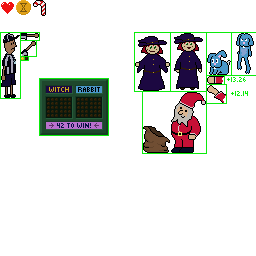
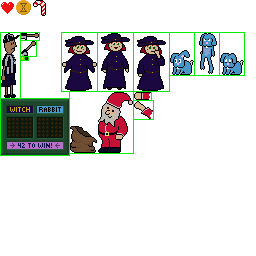
minor touches for dance and jumprope -- gameplay complete!

Changed region(s): [[0.0, 0.125, 1.0, 0.625]]

diff --git a/src/game/minigame/minigame_jumprope.c b/src/game/minigame/minigame_jumprope.c
@@ -240,14 +240,16 @@ static int draw_rope(struct minigame *minigame) {
 }
 
 /* Draw Dot or Rabbit.
- * Each must have two frames of equal size. Jumping immediately right of Idle.
+ * Each must have three frames of equal size, left to right: Idle, jump, lose.
  */
  
-static void draw_jumper(struct minigame *minigame,int dstx,int srcx,int srcy,int w,int h,double jump) {
+static void draw_jumper(struct minigame *minigame,int dstx,int srcx,int srcy,int w,int h,double jump,int lose) {
   int dsty=Y_FLOOR-h;
   if (jump>0.0) {
     srcx+=w+1;
     dsty-=(int)jump;
+  } else if (lose) {
+    srcx+=(w+1)*2;
   }
   graf_draw_decal(&g.graf,MINIGAME->texid,dstx,dsty,srcx,srcy,w,h,0);
 }
@@ -258,19 +260,19 @@ static void draw_jumper(struct minigame *minigame,int dstx,int srcx,int srcy,int
  */
  
 static void draw_xmas(struct minigame *minigame) {
-  draw_jumper(minigame,100,135,33,35,58,MINIGAME->ljump);
+  draw_jumper(minigame,100,62,33,35,58,MINIGAME->ljump,0);
   
   int santax=180;
   int santay=Y_FLOOR-61;
-  graf_draw_decal(&g.graf,MINIGAME->texid,santax,santay,143,92,63,61,0);
+  graf_draw_decal(&g.graf,MINIGAME->texid,santax,santay,70,92,63,61,0);
   if (MINIGAME->xmasclock>3.000) {
     // ok done throwing it, arm disappears.
   } else if (MINIGAME->xmasclock>2.000) {
     // throwing it
-    graf_draw_decal(&g.graf,MINIGAME->texid,santax+12,santay+14,207,85,19,18,0);
+    graf_draw_decal(&g.graf,MINIGAME->texid,santax+12,santay+14,134,101,19,18,0);
   } else if (MINIGAME->xmasclock>0.500) {
     // brandishing
-    graf_draw_decal(&g.graf,MINIGAME->texid,santax+13,santay+26,207,76,17,8,0);
+    graf_draw_decal(&g.graf,MINIGAME->texid,santax+13,santay+26,134,92,17,8,0);
     graf_draw_tile(&g.graf,MINIGAME->texid,santax+11,santay+28,MINIGAME->prize,0);
   }
   
@@ -309,11 +311,11 @@ static void _jumprope_render(struct minigame *minigame) {
   } else if (MINIGAME->rope<0.5) {
     ropey=draw_rope(minigame);
     graf_flush(&g.graf);
-    draw_jumper(minigame,100,135,33,35,58,MINIGAME->ljump);
-    draw_jumper(minigame,200,207,33,24,42,MINIGAME->rjump);
+    draw_jumper(minigame,100, 62,33,35,58,MINIGAME->ljump,minigame->outcome<0);
+    draw_jumper(minigame,200,170,33,24,42,MINIGAME->rjump,minigame->outcome>0);
   } else {
-    draw_jumper(minigame,100,135,33,35,58,MINIGAME->ljump);
-    draw_jumper(minigame,200,207,33,24,42,MINIGAME->rjump);
+    draw_jumper(minigame,100, 62,33,35,58,MINIGAME->ljump,minigame->outcome<0);
+    draw_jumper(minigame,200,170,33,24,42,MINIGAME->rjump,minigame->outcome>0);
     ropey=draw_rope(minigame);
   }
   
@@ -370,7 +372,7 @@ struct minigame *minigame_new_jumprope(double difficulty) {
   }
   struct egg_draw_decal decal={
     .dstx=0,.dsty=0,
-    .srcx=40,.srcy=79,
+    .srcx=1,.srcy=99,
     .w=68,.h=56,
     .xform=0,
   };

diff --git a/src/game/modal/modal_encounter.c b/src/game/modal/modal_encounter.c
@@ -151,7 +151,7 @@ static int _encounter_update(struct modal *modal,double elapsed) {
   
   // Detect establishment of outcome.
   if (MODAL->minigame->outcome&&!MODAL->outcome) {
-    MODAL->coolclock=1.000;
+    if (!MODAL->minigame->skip_cooldown) MODAL->coolclock=1.000;
     MODAL->outcome=MODAL->minigame->outcome;
     if (MODAL->outcome>0) {
       encounter_win(modal);

diff --git a/src/game/minigame/minigame_dance.c b/src/game/minigame/minigame_dance.c
@@ -314,6 +314,7 @@ struct minigame *minigame_new_dance(double difficulty) {
   minigame->update=_dance_update;
   minigame->render=_dance_render;
   minigame->difficulty=(difficulty<=0.0)?0.0:(difficulty>=1.0)?1.0:difficulty;
+  minigame->skip_cooldown=1;
   
   if (egg_texture_load_image(MINIGAME->texid=egg_texture_new(),RID_image_dance)<0) {
     _dance_del(minigame);

diff --git a/src/game/minigame.h b/src/game/minigame.h
@@ -17,6 +17,7 @@ struct minigame {
   
   int outcome; // -1,0,1 = lose,pending,win
   double difficulty; // 0..1, constant
+  int skip_cooldown; // Nonzero to skip the usual 1-second cooldown post game, for games that aren't hitting A at the end.
 };
 
 struct minigame *minigame_new_karate(double difficulty);

diff --git a/README.md b/README.md
@@ -40,7 +40,7 @@ Code For A Cause Micro Jam, July 2025, theme "EVERY ACTION HAS A COST".
 
 - [x] Maps.
 - [x] Difficulty per map.
-- [ ] Final graphics.
+- [x] Final graphics.
 - [x] Music.
 - [x] Sound effects.
 - [ ] Hello.
@@ -51,14 +51,14 @@ Code For A Cause Micro Jam, July 2025, theme "EVERY ACTION HAS A COST".
 - [x] Animate spending gold.
 - [x] Visual juice paying tolldoor.
 - [x] Animate walking.
-- [ ] Animate bumping walls.
+- [x] Animate bumping walls. ...meh no need
 - [x] Karate: Foe should get the same thing as you, and should use exactly enough power to break it.
 - [x] Karate: Fudge the mavg such that the first stroke creates visible activity in the meter.
 - [x] Karate: Facial expressions.
 - [x] Karate: Indicator in power meter of required level. Or does that expose too much?
-- [ ] Dance: At the end, I keep wanting to press A and proceed, before the "You win" message.
+- [x] Dance: At the end, I keep wanting to press A and proceed, before the "You win" message.
 - [x] Dance: Hihat a bit louder.
-- [ ] Jumprope: Distraught faces when lost. And some decoration on the rope. An explosion?
+- [x] Jumprope: Distraught faces when lost. And some decoration on the rope. An explosion?
 - [x] Dance off animates choppy native. Check `egg_audio_get_playhead`, are we estimating driver buffer position incorrectly?
 - - ...Pulse has its own buffer, and we asked it to set at 50 hz, while we thought it was 100 hz. Fixed, and it's a little less choppy now. Still not great.
 - [x] Is there a flash of random content when launching dance off? Or my eyes playing tricks on me...
